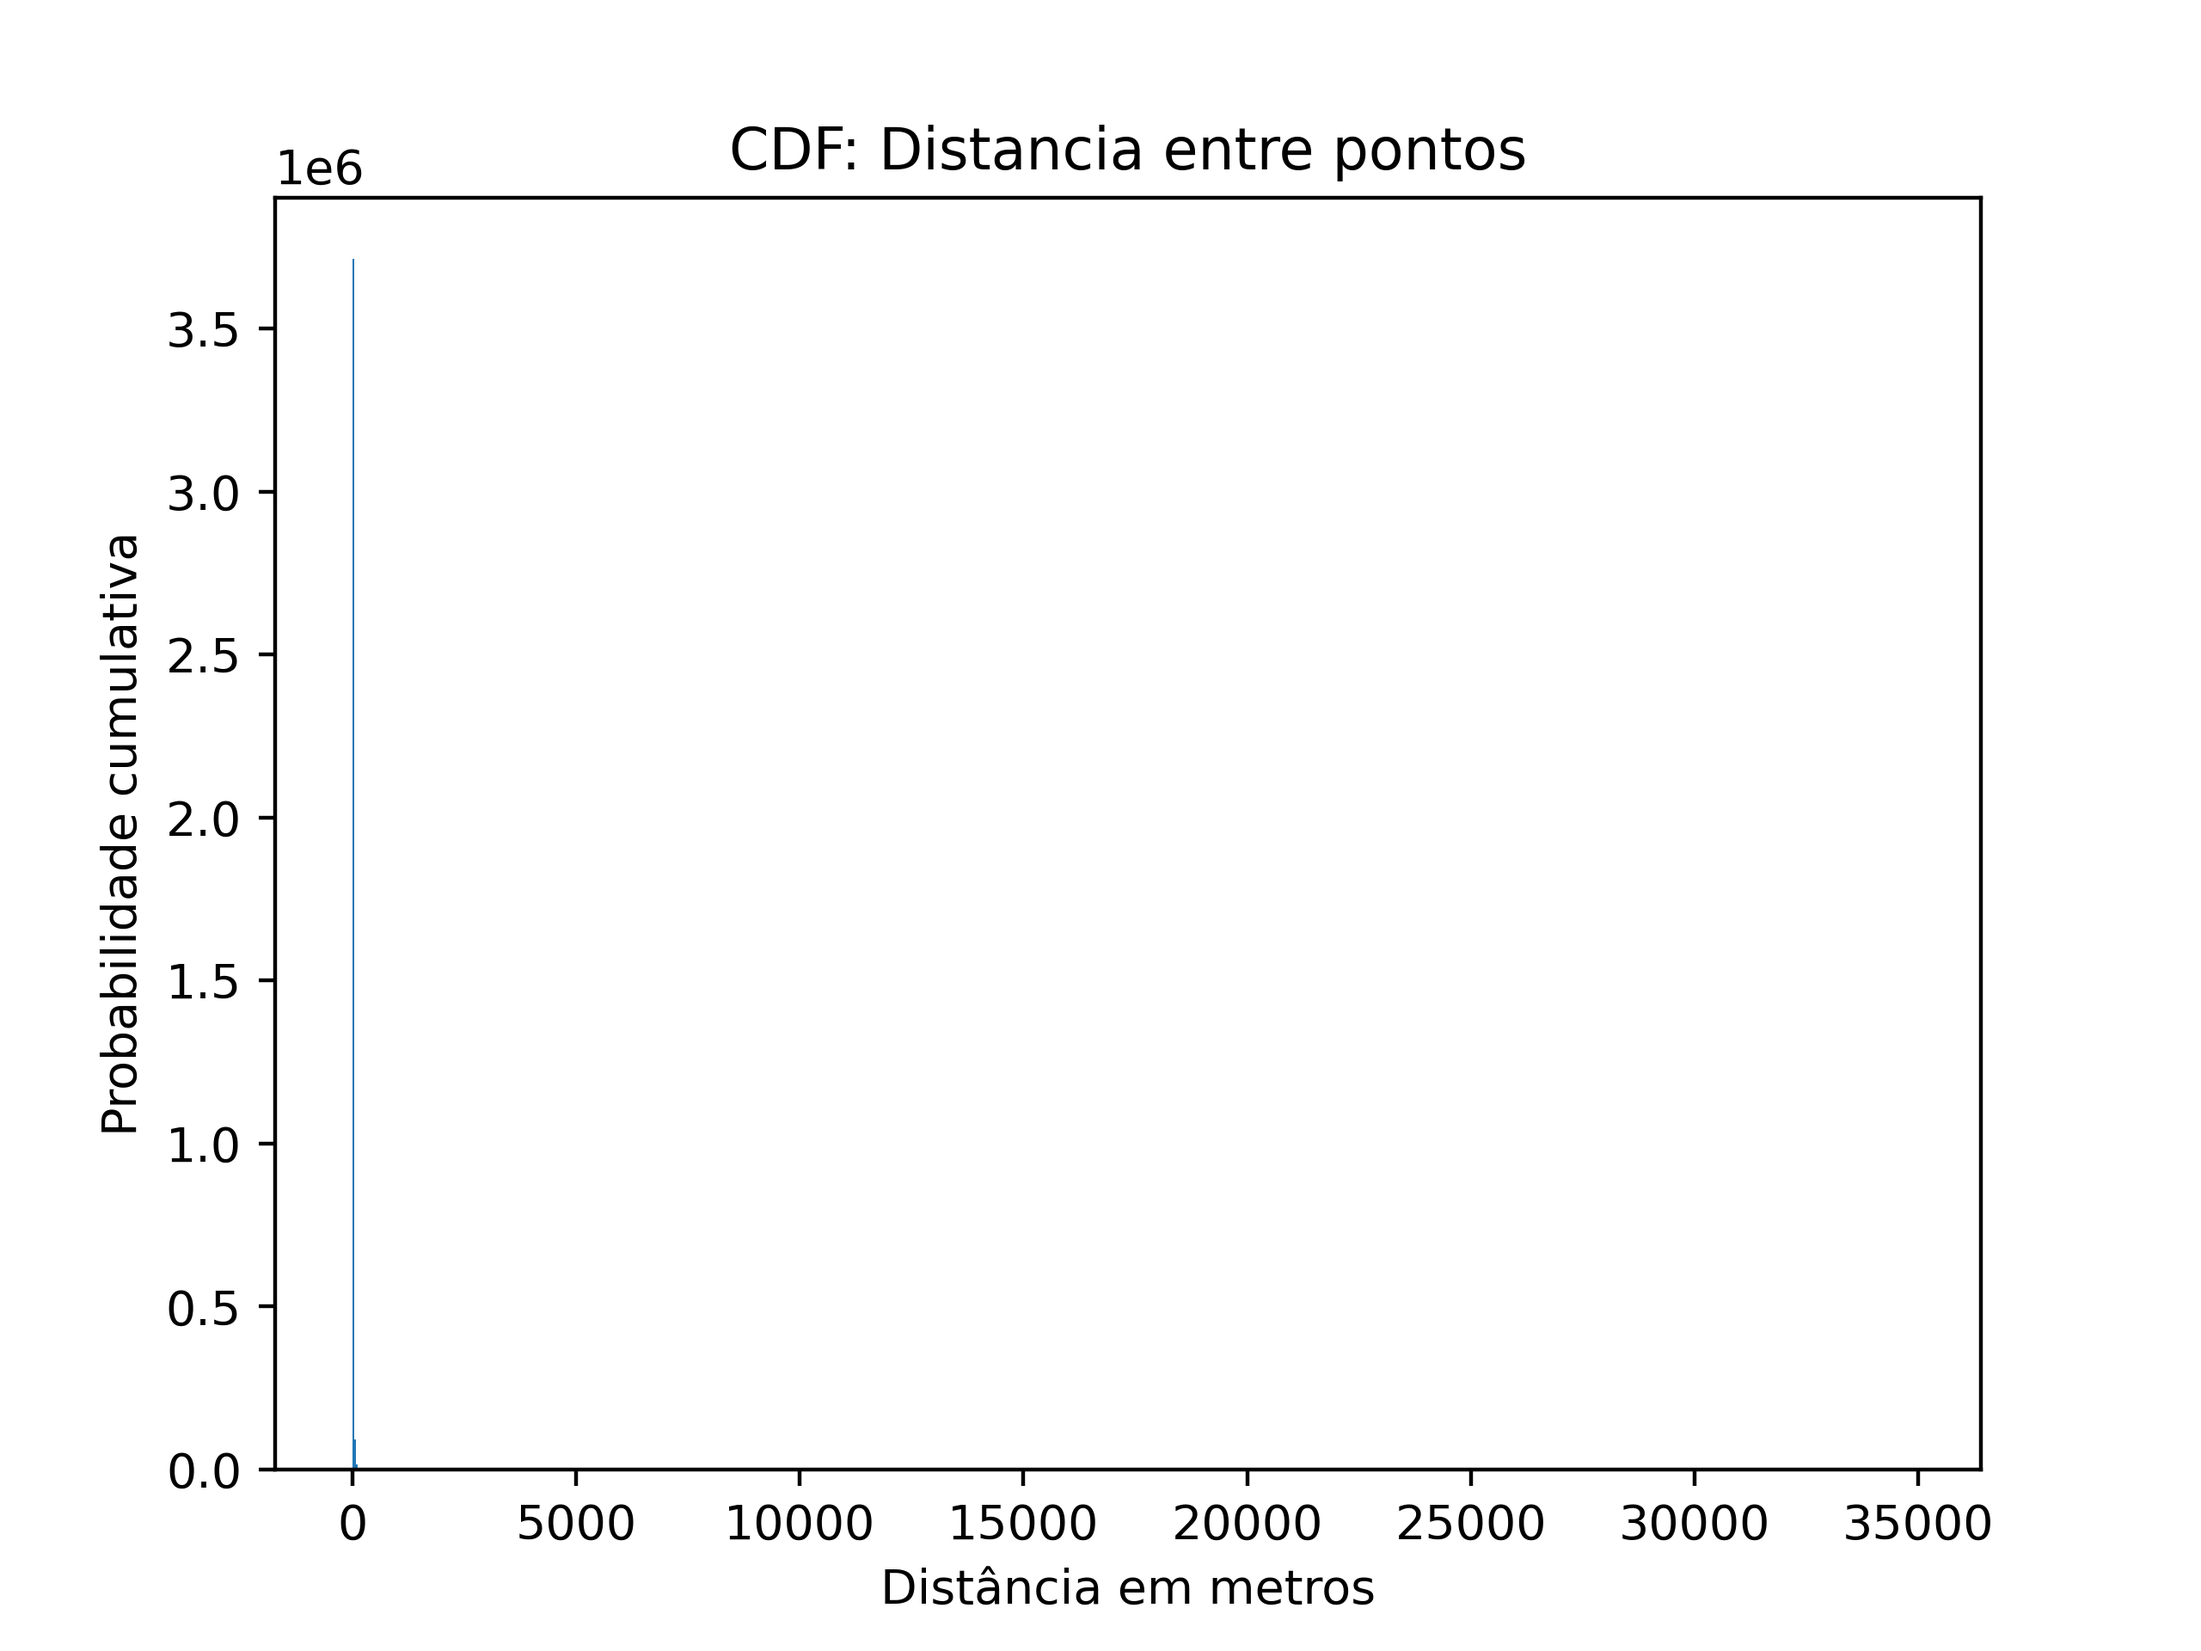
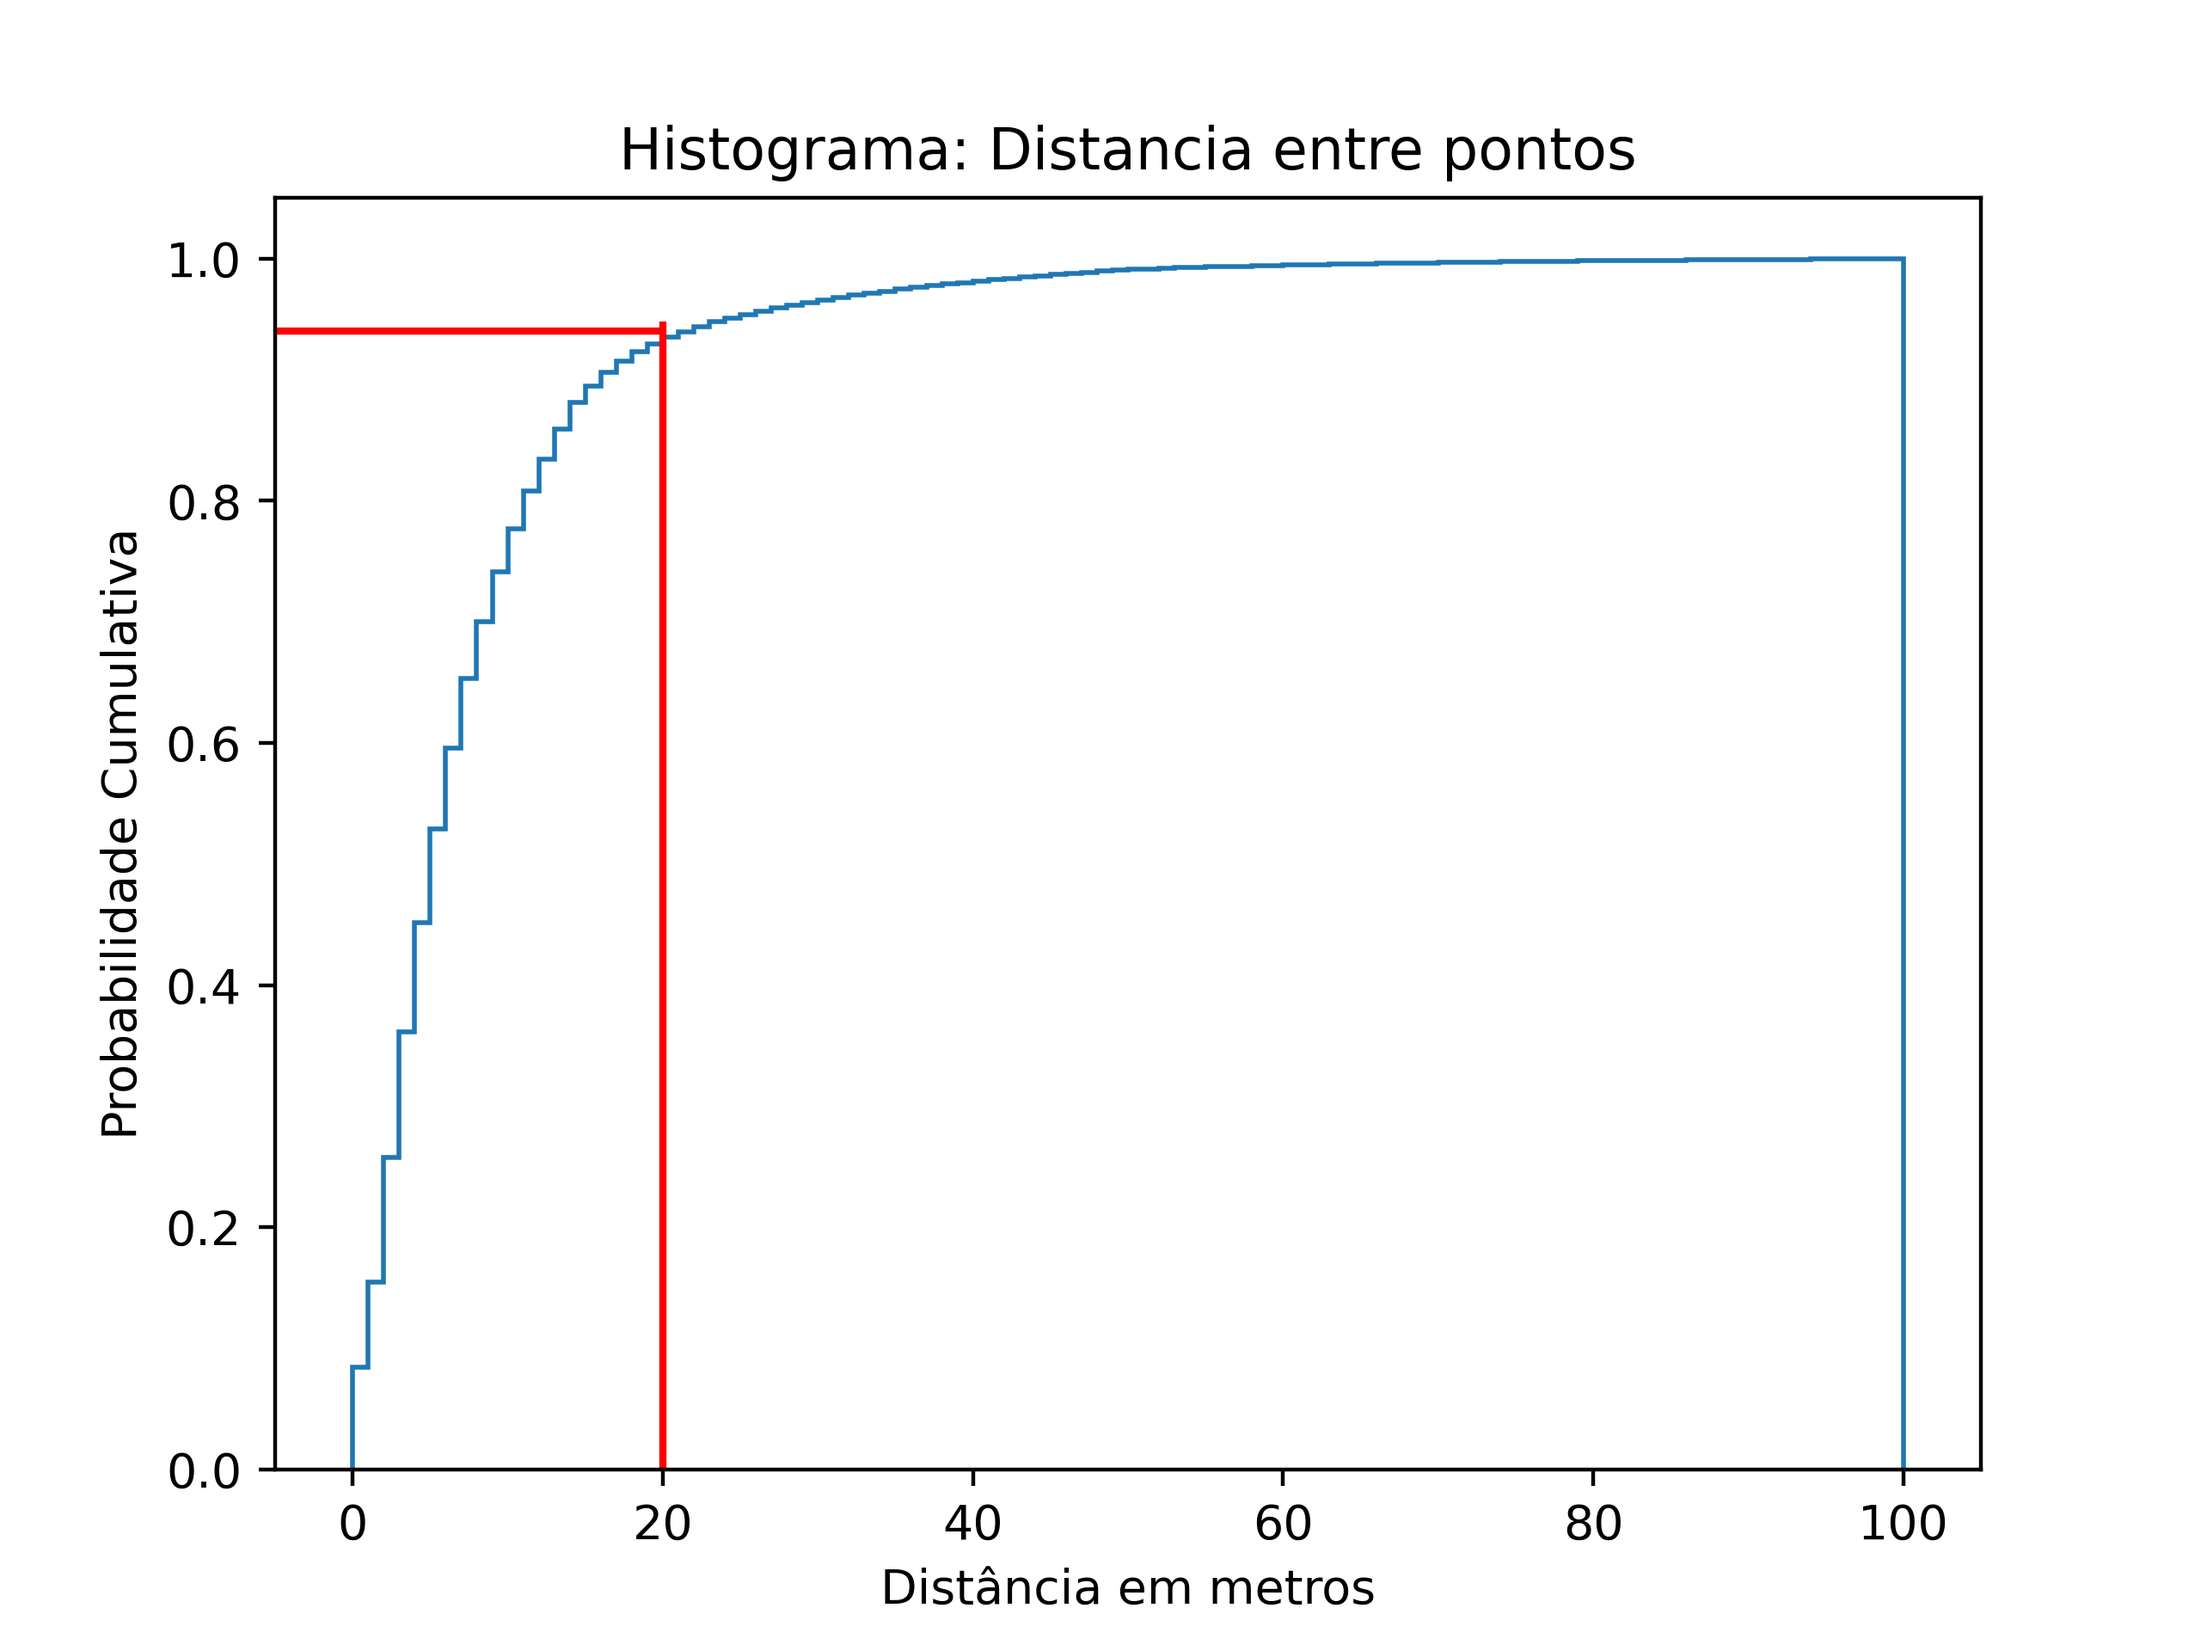
Adicionando informações na cdf de Distância

diff --git a/src/staypointDetection.py b/src/staypointDetection.py
@@ -35,29 +35,19 @@ limitTempo = timedelta(seconds=10)
 
 def cdfTempo():
     """Função que plota uma cdf com os dados de distancia entre pontos de todos veículos"""
-    # getting data of the histogram 
-    timeGapsDiscrete = list(map(int, allTimeGaps))
-
-    sigma = np.std(timeGapsDiscrete)
-    n_bins = 10000
-    mu = sum(timeGapsDiscrete)/len(timeGapsDiscrete)
-    
-    plt.hist(timeGapsDiscrete, bins=10000,density=True)
-    #plt.hist(timeGapsDiscrete, bins=10000,density=True,cumulative=True,label="CDF",histtype="step")
-    plt.plot(timeGapsDiscrete[20])
-    plt.savefig(path+'/img/cdfTempo.png',dpi=400)
-    plt.show()
 
 def cdfDistancia():
     """Função que plota uma cdf com os dados de distancia entre pontos de todos veículos"""
     # getting data of the histogram 
 
-    plt.hist(allCoordGaps, bins=100, density=True,range=(0,100))
+    #plt.hist(allCoordGaps, bins=100, density=True,range=(0,100))
     plt.hist(allCoordGaps, bins=100, density=True,range=(0,100),cumulative=True,histtype="step")
     plt.title('Histograma: Distancia entre pontos')
     #plt.yscale('log')
+    plt.axhline(y=.94,xmin=0,xmax=.225,color='r')
+    plt.axvline(x=20,ymin=0,ymax=.90,color='r')
     plt.xlabel('Distância em metros')
-    plt.ylabel('Quantidade em log')
+    plt.ylabel('Probabilidade Cumulativa')
     plt.savefig(path+'/img/cdfDistancia.png',dpi=400)
     plt.show()
 
@@ -422,7 +412,7 @@ def lerDados():
             for key in keys:
                 for line in pontos[key]:
                     file.write('%s\n' % line.pointData['Hora']) 
-                print()
+                #print()
             file.truncate()
 
         with open(path+'/data/hora.txt', 'r') as file:
@@ -438,8 +428,8 @@ def lerDados():
 
 #Driver
 allTimeGaps, allCoordGaps, timeGapsDiscrete, coordGapsDiscrete, keys = lerDados()
-
-
+cdfDistancia()
+'''
 
 print("\nMenu:\n \
     (0)Sair\n \
@@ -483,4 +473,4 @@ while(resp != 0):
     (7)Gerar CDF de tempo\n \
     (8)Atualizar dados")
     resp = int(input("Digite sua opção: "))
-    print()
+    print()'''
